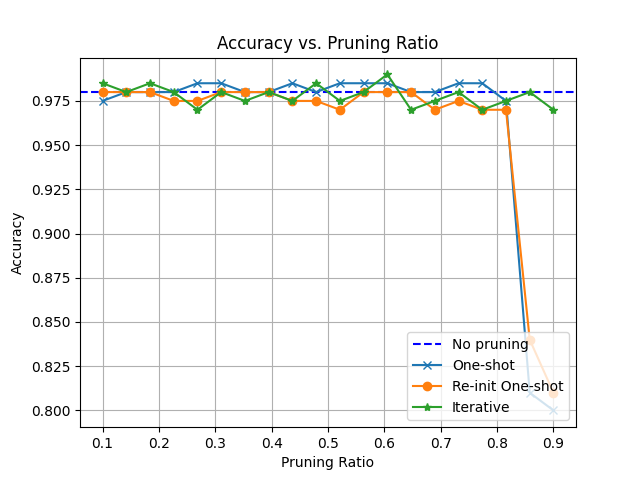
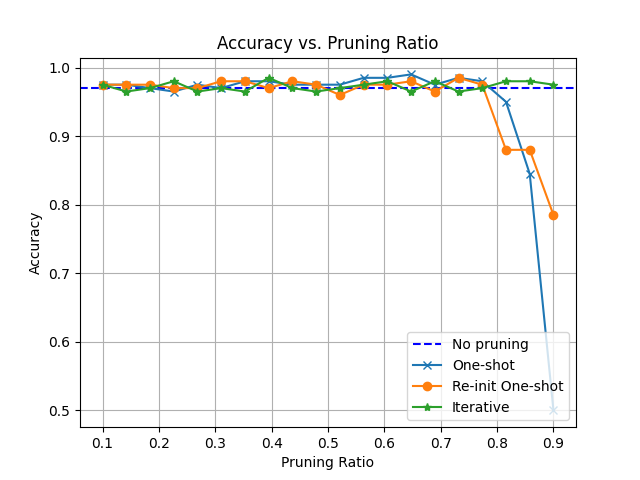
add bias update in pruning

diff --git a/playTest/pruning_methods.py b/playTest/pruning_methods.py
@@ -177,7 +177,6 @@ def oneshot_pruning_reinit( post_training_model, pre_training_model, input_shape
         if 'weight' in name:
             model[index].weight.data = unpruned_layers[index].weight.data
             model[index].bias.data = unpruned_layers[index].bias.data
-            print(index)
             index=index+2
     return model
 
@@ -247,5 +246,6 @@ def iterative_pruning(model, X_train_tensor, y_train_tensor, prune_ratio, prune_
                 if 'weight' in name:
                     model[index].weight.data = unpruned_layers[index].weight.data
                     model[index].bias.data = unpruned_layers[index].bias.data
+                    index=index+2
             criterion = nn.CrossEntropyLoss()
             optimizer = optim.Adam(model.parameters(), lr=0.01)
